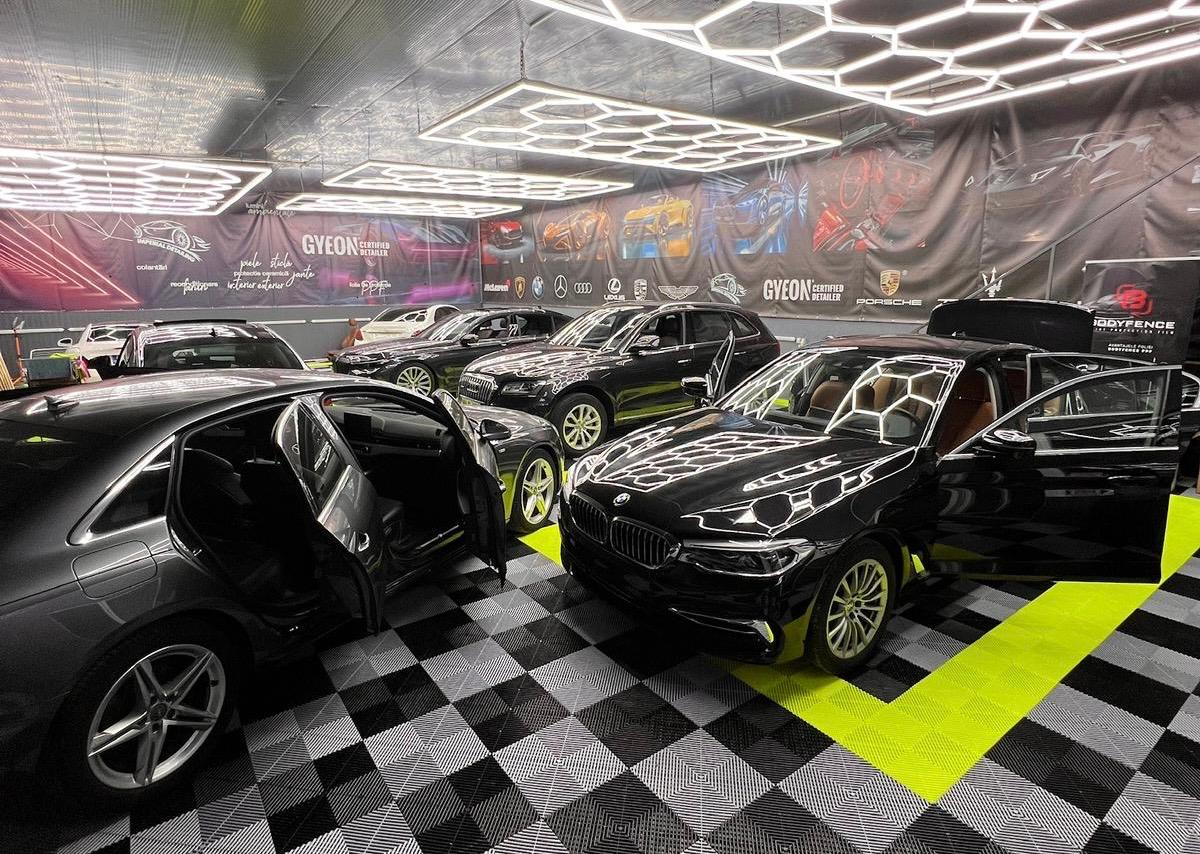
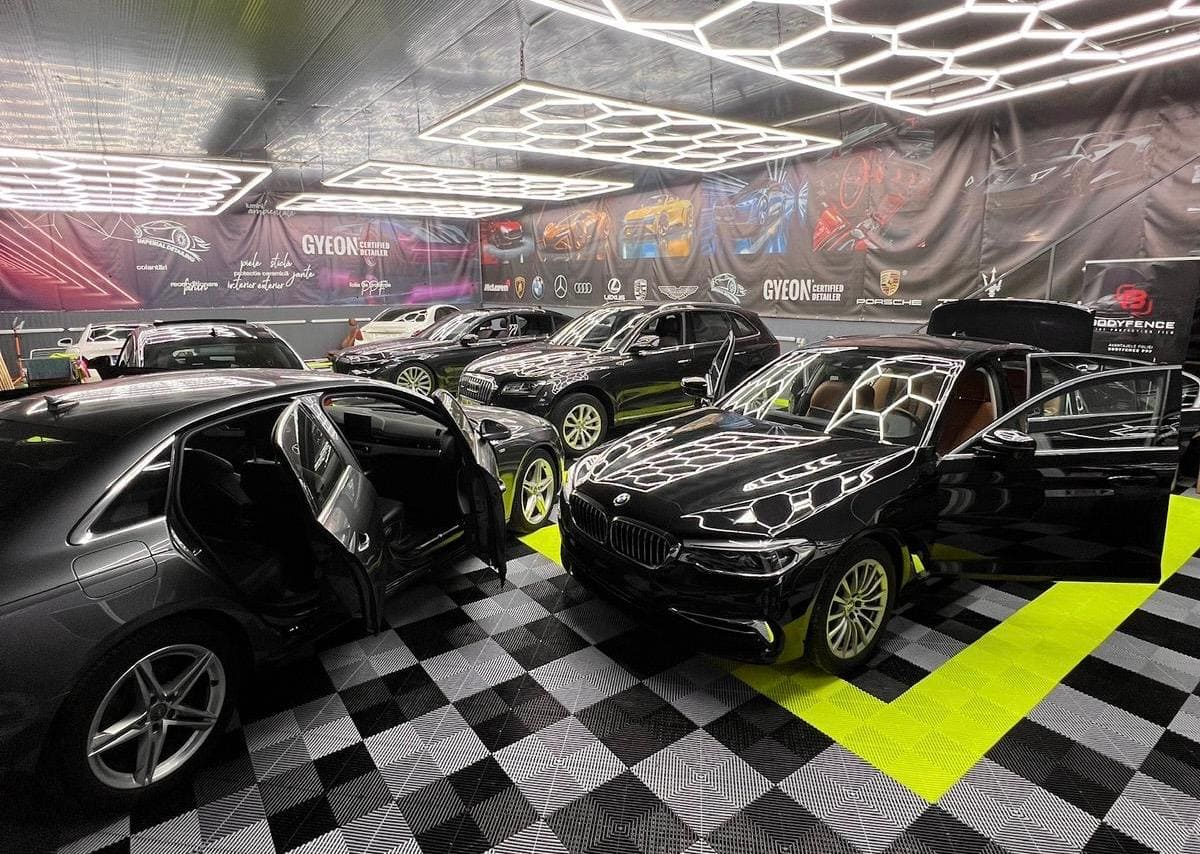
add new images

diff --git a/src/components/SiteHeader.vue b/src/components/SiteHeader.vue
@@ -45,13 +45,13 @@
       </ol>
       <div class="carousel-inner">
         <div class="carousel-item active">
-          <img class="d-block w-100 carousel-image " src="../assets/img/garajFull.jpeg" alt="First slide">
+          <img class="d-block w-100 carousel-image " src="../assets/img/newGaraj.jpeg" alt="First slide">
         </div>
         <div class="carousel-item">
-          <img class="d-block w-100 carousel-image " src="../assets/img/garajFull.jpeg" alt="Second slide">
+          <img class="d-block w-100 carousel-image " src="../assets/img/newGaraj.jpeg" alt="Second slide">
         </div>
         <div class="carousel-item">
-          <img class="d-block w-100 carousel-image " src="../assets/img/garajFull.jpeg" alt="Third slide">
+          <img class="d-block w-100 carousel-image " src="../assets/img/newGaraj.jpeg" alt="Third slide">
         </div>
       </div>
       <a class="carousel-control-prev" href="#carouselExampleIndicators" role="button" data-slide="prev">

diff --git a/src/components/IntrebariFrecvente.vue b/src/components/IntrebariFrecvente.vue
@@ -94,7 +94,7 @@
         </div>
     </div>
     <div class="d-none d-lg-flex align-items-center">
-        <img src="../assets/img/questionMark.jpg" alt="">
+        <img src="../assets/img/questionMark.png" alt="">
     </div>
 </div>
 </template>
